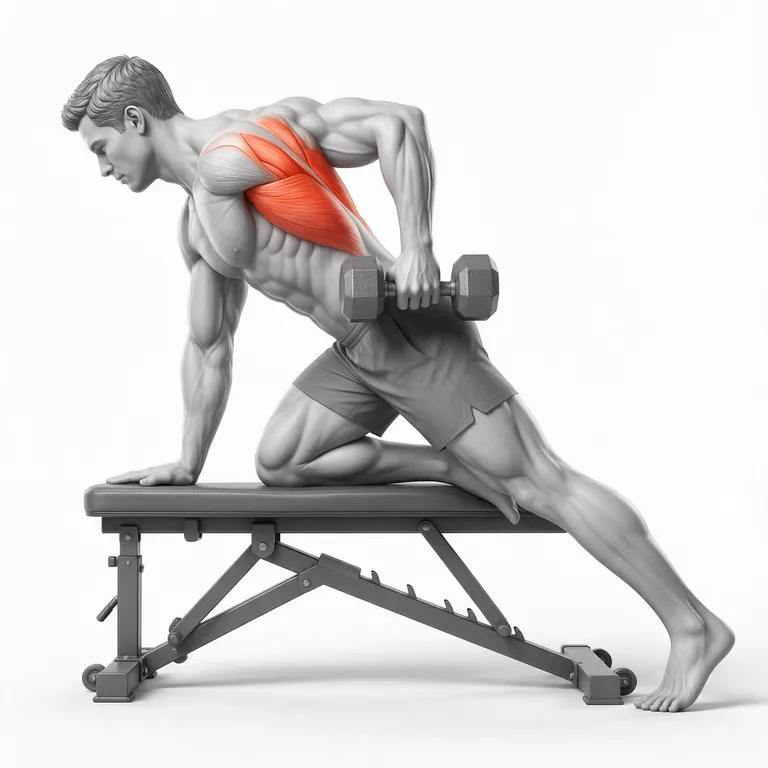
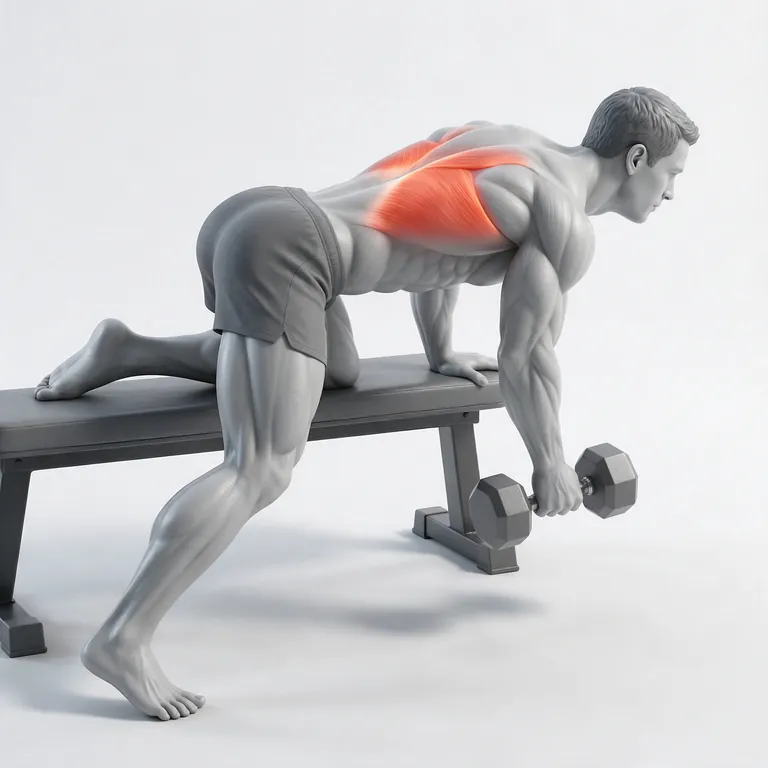
Ficha de ejercicio: no se cortaba bajo la barra del sistema; nueva imagen del remo con mancuerna

diff --git a/lib/features/routines/widgets/exercise_tile.dart b/lib/features/routines/widgets/exercise_tile.dart
@@ -82,11 +82,15 @@ void showExerciseDetail(BuildContext context, WorkoutExercise e) {
     child: Column(
       crossAxisAlignment: CrossAxisAlignment.start,
       children: [
+        // Tope de 300: a todo lo ancho la imagen llenaba la hoja y la
+        // información quedaba fuera de la vista.
         LayoutBuilder(
-          builder: (context, c) => ExerciseThumb(
-            exerciseName: e.name,
-            size: c.maxWidth,
-            radius: AppSpacing.radiusMd,
+          builder: (context, c) => Center(
+            child: ExerciseThumb(
+              exerciseName: e.name,
+              size: c.maxWidth < 300 ? c.maxWidth : 300,
+              radius: AppSpacing.radiusMd,
+            ),
           ),
         ),
         const SizedBox(height: AppSpacing.lg),

diff --git a/lib/widgets/ui/app_bottom_sheet.dart b/lib/widgets/ui/app_bottom_sheet.dart
@@ -48,11 +48,13 @@ Future<T?> showAppBottomSheet<T>({
               const Divider(height: 1),
               Flexible(
                 child: SingleChildScrollView(
-                  padding: const EdgeInsets.fromLTRB(
+                  // + la barra de navegación del sistema: sin esto lo último
+                  // de la hoja quedaba debajo de ella y no se alcanzaba.
+                  padding: EdgeInsets.fromLTRB(
                     AppSpacing.xl,
                     AppSpacing.lg,
                     AppSpacing.xl,
-                    AppSpacing.xl,
+                    AppSpacing.xl + MediaQuery.viewPaddingOf(context).bottom,
                   ),
                   child: child,
                 ),
